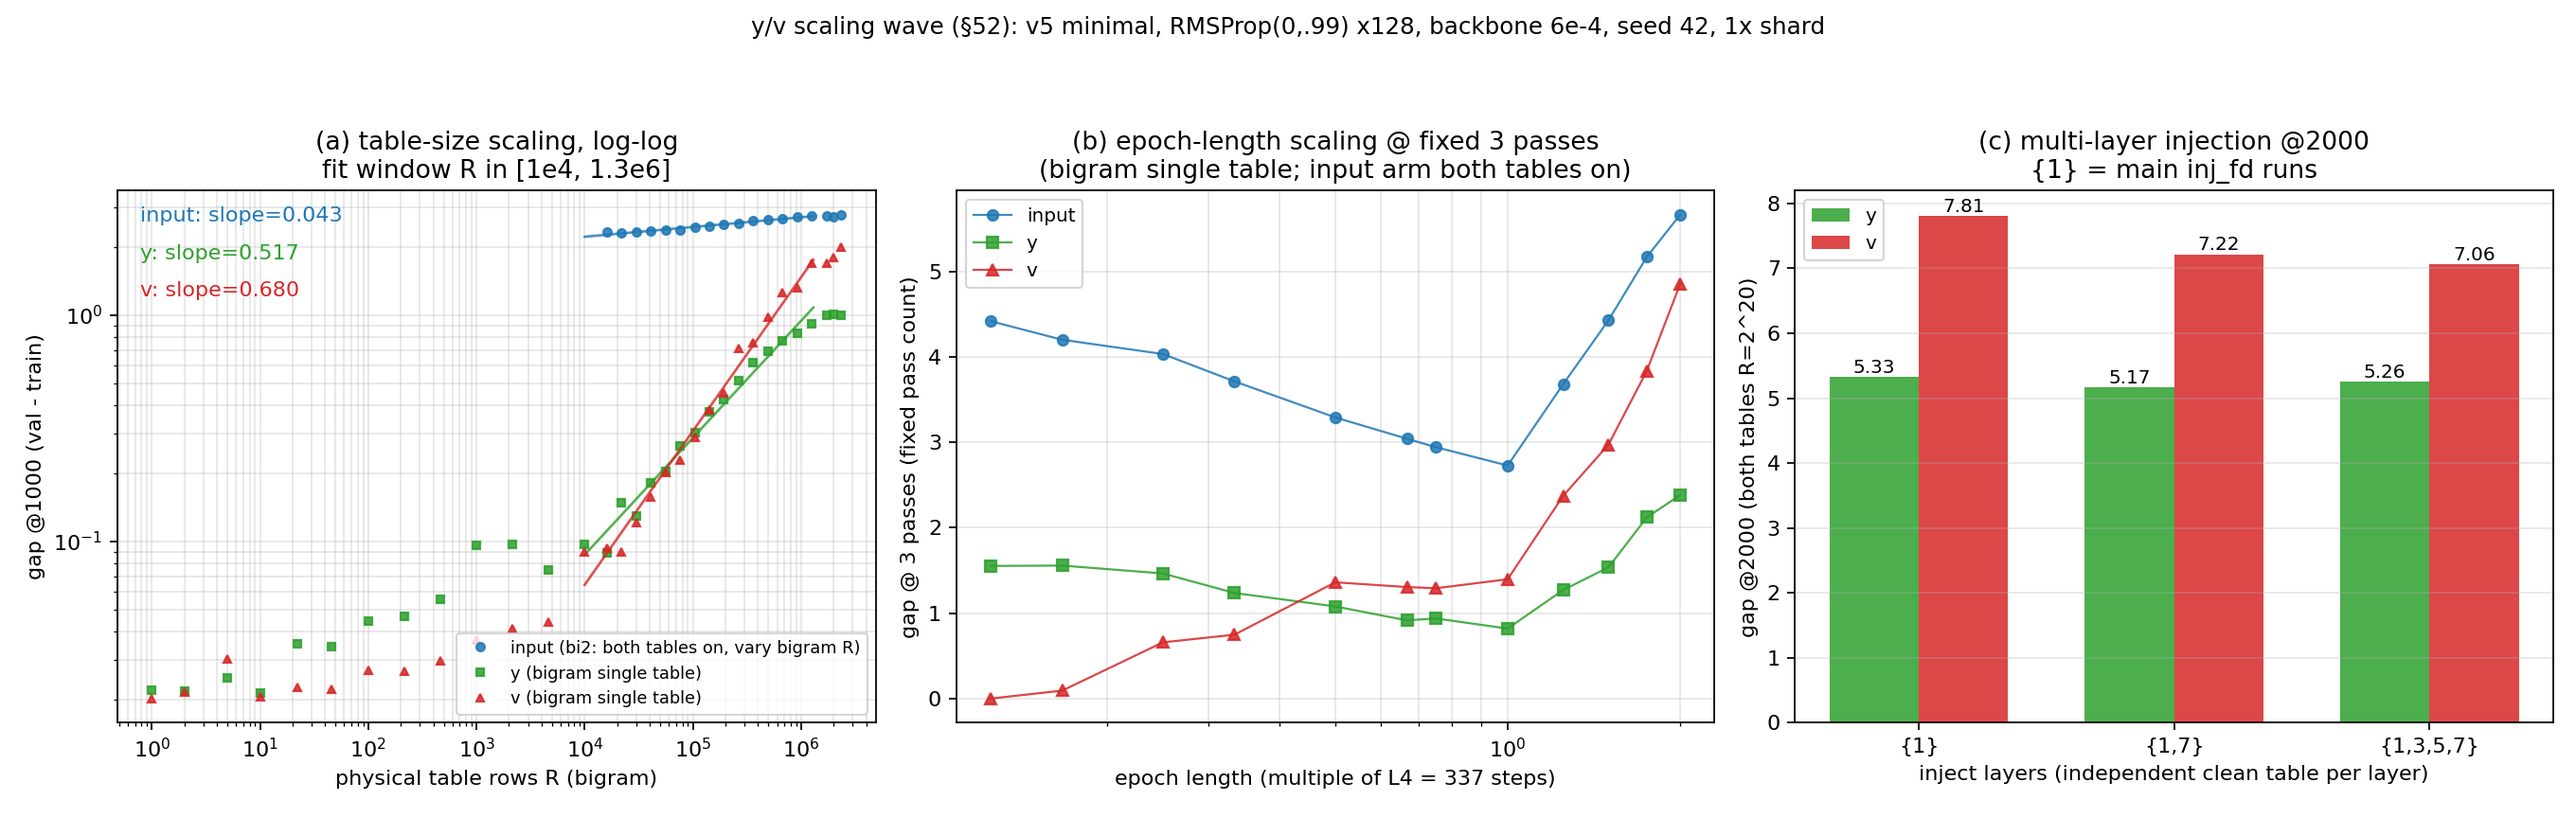
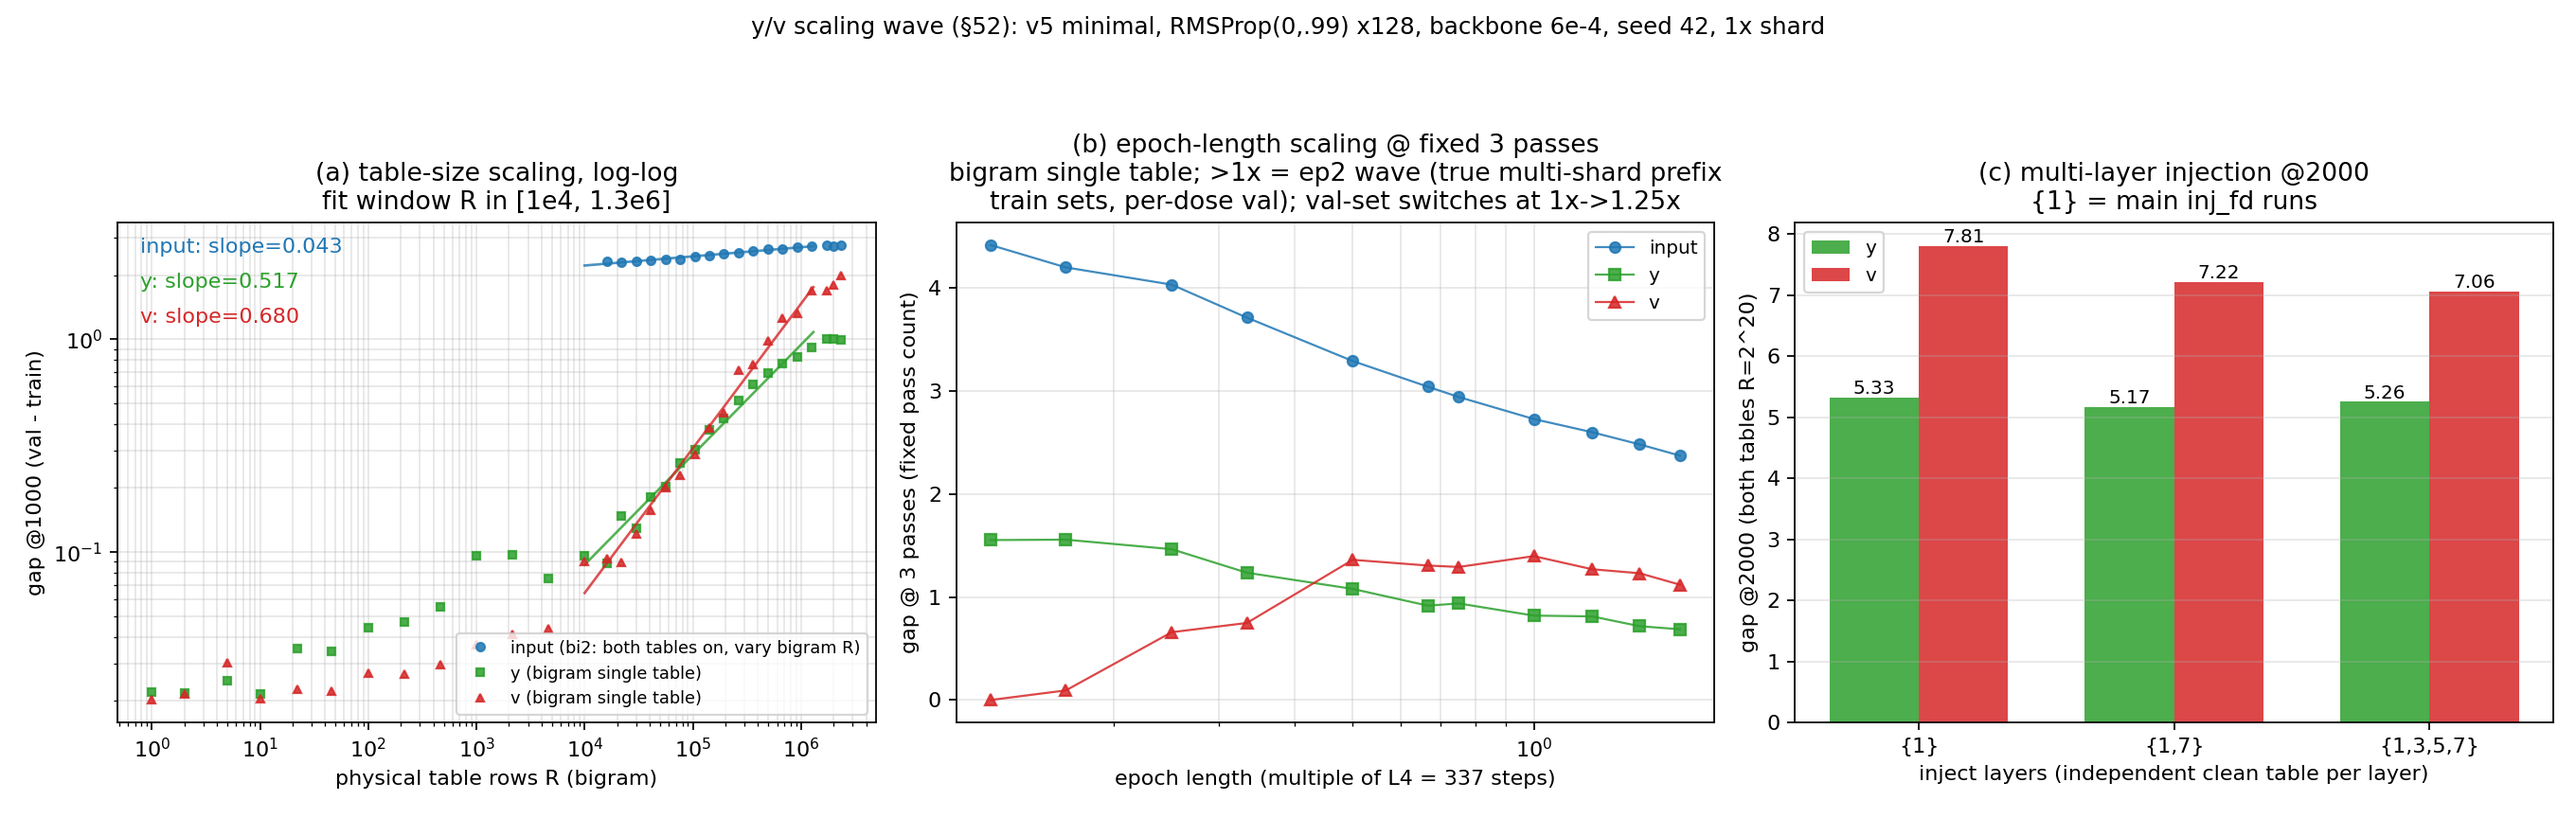
log: §52 epoch results corrected (ep2): monotonic mild decrease, U right limb was reuse artifact; figure regenerated

diff --git a/docs/plot_scripts/plot_v5_yv_scaling.py b/docs/plot_scripts/plot_v5_yv_scaling.py
@@ -56,8 +56,22 @@ def ep_points(summaries):
         m = re.search(r"_ep_bi_(\d+p\d*)xL4_3ep$", rid)
         if m:
             mult = float(m.group(1).replace("p", "."))
+            if mult > 1.0:
+                continue  # old >1x points carried the data-reuse bug; ep2 replaces them
             pts.append((mult, s["final_gap"]))
     return np.array(sorted(pts))
+
+
+def ep2_points(summaries):
+    """Corrected >1x epoch arms (ep2 wave, real multi-shard train sets)."""
+    pts = {}
+    for rid, s in summaries.items():
+        m = re.search(r"_(input|y|v)_ep2_(\d+p\d+)x?L4_3ep$", rid)
+        if m:
+            arm = m.group(1)
+            mult = float(m.group(2).replace("p", "."))
+            pts.setdefault(arm, []).append((mult, s["final_gap"]))
+    return {a: np.array(sorted(v)) for a, v in pts.items()}
 
 
 def fit_window(x, y, lo, hi):
@@ -89,9 +103,11 @@ def main():
         "v": tbl_points(load_summaries(SUM / "g3601/s1v5_128_v_tbl_*/summary.json")
                         | load_summaries(SUM / "g3602/s1v5_128_v_tbl_*/summary.json")),
     }
-    ep = {"input": input_ep}
+    ep = {"input": input_ep[input_ep[:, 0] <= 1.0]}  # >1x CSV points carried the reuse bug
     for pos in ("y", "v"):
         ep[pos] = ep_points(load_summaries(SUM / f"g3602/s1v5_128_{pos}_ep_*/summary.json"))
+    for arm, pts2 in ep2_points(load_summaries(SUM / "ep2/*/summary.json")).items():
+        ep[arm] = np.vstack([ep[arm], pts2])
 
     ml = load_summaries(SUM / "g3602/mlv5_*/summary.json")
     ml_gap = {rid.replace("mlv5_", "").replace("_fd", ""): s["final_gap"]
@@ -130,7 +146,9 @@ def main():
     ax.set_xscale("log")
     ax.set_xlabel("epoch length (multiple of L4 = 337 steps)")
     ax.set_ylabel("gap @ 3 passes (fixed pass count)")
-    ax.set_title("(b) epoch-length scaling @ fixed 3 passes\n(bigram single table; input arm both tables on)")
+    ax.set_title("(b) epoch-length scaling @ fixed 3 passes\n"
+                 "bigram single table; >1x = ep2 wave (true multi-shard prefix\n"
+                 "train sets, per-dose val); val-set switches at 1x->1.25x")
     ax.legend(fontsize=9)
     ax.grid(alpha=0.3, which="both")
 
